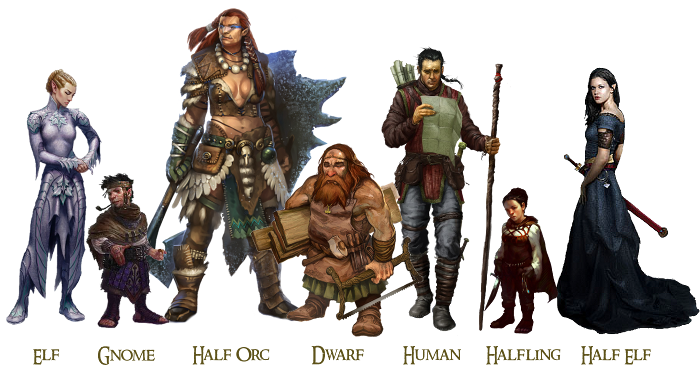
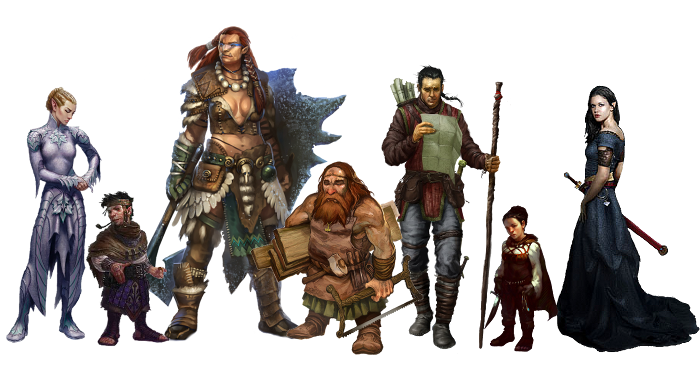
image fix

diff --git a/main.css b/main.css
@@ -42,15 +42,15 @@ h3 {}
 
 #racePic {
     display: block;
-    height: 480px;
-    max-width: ;
+    max-height: 480px;
+    max-width: 100%;
     margin-left: auto;
     margin-right: auto;
     margin-top: 2em;
     margin-bottom: 2em
 }
 
-@media @media only screen and (max-width: 720px) {
+@media only screen and (max-width: 720px) {
     #raceButtons {
         text-align: center;
         display: block;
@@ -60,10 +60,25 @@ h3 {}
     }
 }
 
+#raceButtons {
+    text-align: center;
+    display: block;
+    margin-left: auto;
+    margin-right: auto;
+    width: auto
+}
+
 input[type=radio] {
     text-align: center;
     display: inline-block;
     margin: 1em
+}
+
+@media only screen and (max-width: 720px) {
+    label {
+        display: inline-block;
+        width: 33%
+    }
 }
 
 label {

diff --git a/index.html b/index.html
@@ -63,7 +63,7 @@
                     </label>
                     <label>
                         <input type='radio' class='radio' name='race' value='Half-Orc' onclick="ChangeImage('halforc')">
-                        <h3>Hallf-Orc</h3>
+                        <h3>Half-Orc</h3>
                     </label>
                     <label>
                         <input type='radio' class='radio' name='race' value='Halfling' onclick="ChangeImage('halfing')">
